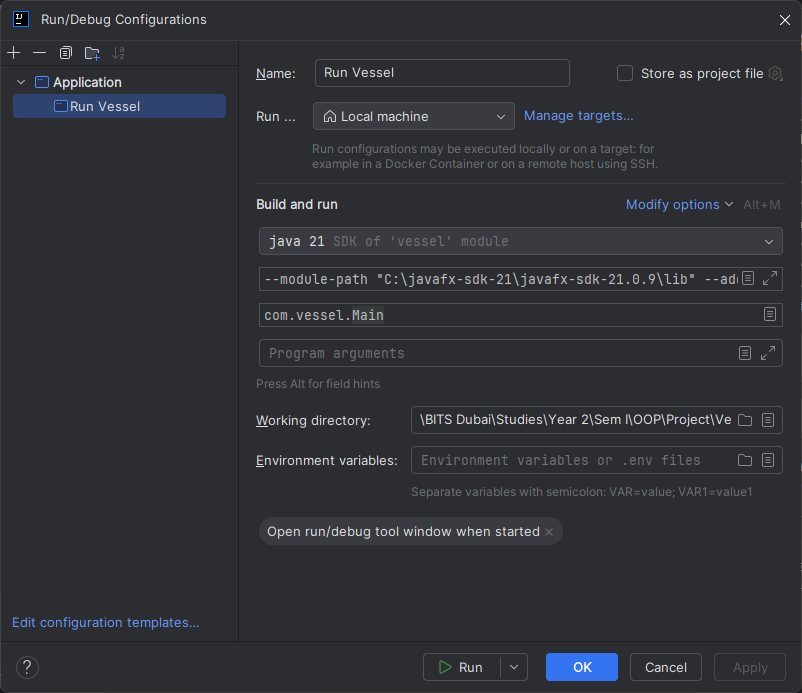
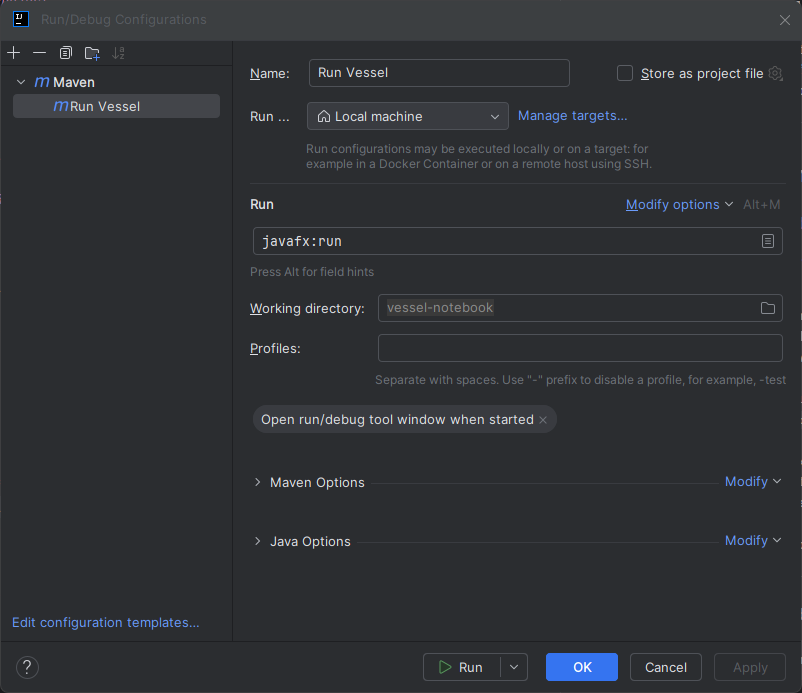
UPDATED README.md - Reordered setup stuff to be above non-setup related stuff - Added instructions for setting up run config

diff --git a/README.md b/README.md
@@ -52,9 +52,92 @@ Open command prompt and use ``` mvn --version ```
 * If prompted, click **“Trust Project”**.
 * Wait for IntelliJ to index and import dependencies (Gradle/Maven/etc.).
 
+* ### Additional Check (important)
+  * Go to settings → project structure
+  * Make sure your JDK version is correctly set to **JDK 21** (doesn't matter if it shows as `21` or `ms-21`)
+  > ![img.png](readme.meta/jdkcheck.png)
+
+---
+## 5. Setting up Maven in IntelliJ
+
+> 💡 You don’t need to use terminal commands — IntelliJ can handle Maven automatically.
+
+### 1. **Ensure Maven is Loaded**
+- On the right sidebar, open the **Maven** tool window (icon looks like an italicized lowercase "*m*").
+- If it’s hidden, go to **View → Tool Windows → Maven**.
+- Click the 🔄 **Reload All Maven Projects** icon to sync `pom.xml`.
+
+### 2. **Build the Project**
+- From the top menu, go to **Build → Build Project** (`Ctrl + F9` / `Cmd + F9`).
+- This compiles all files in `src/main/java` and places outputs in the `target/` folder.
+
+### 3. **Setup Run Config**
+
+- In IntelliJ, go to **Run → Edit Configurations**.
+- Click the **+** button and choose **Maven** (not Application).
+- For **Name**, enter something like `Run Vessel`.
+- *(Usually auto-filled)* For the **Working directory**, select your project root folder.
+- In the **Command line** (or **Goals**) field, put this exactly:
+
+   ```
+   javafx:run
+   ```
+- Click **Apply** and then **OK**. Your steps should look something like this:
+
+    > ![img.png](readme.meta/runconfigtype.png)
+    
+    > ![img.png](readme.meta/runconfig.png)
+
+    > ![img.png](readme.meta/runbtn.png)
+
+    > 💡 This final run button should automatically run your project from anywhere without needing to do additional maven actions
+
+
+### 4. **Rebuild if Needed**
+- If IntelliJ shows outdated code or dependency issues, select **Build → Rebuild Project**.
+
+> ✅ If you're setting up your project for its first ever run - **you're done after this step**! The rest of this document simply has additional info you may need later/in other cases
+
 ---
 
-## 5. Basic Git Operations in IntelliJ
+### ⚙ Basic Maven Commands
+> 💡 You probably wont use these much since IntelliJ's UI kinda has everything in it, but these are here *just* in case
+
+| Command | Description |
+|----------|-------------|
+| `mvn -v` | Check Maven version (verify installation). |
+| `mvn clean` | Deletes the `target/` folder to ensure a fresh build. |
+| `mvn compile` | Compiles all project source files (`src/main/java`). |
+| `mvn package` | Packages the project into a `.jar` file inside `target/`. |
+| `mvn install` | Builds and installs the JAR into your local Maven repository (`~/.m2`). |
+| `mvn site` | Generates a project site/documentation if configured. |
+| `mvn dependency:tree` | Displays a visual tree of all dependencies (useful for debugging conflicts). |
+| `mvn validate` | Checks that the `pom.xml` and project structure are correct. |
+| `mvn verify` | Runs integration tests after packaging (if any). |
+| `mvn exec:java -Dexec.mainClass="com.vessel.Main"` | Runs your main class directly from Maven. |
+
+---
+
+### 🧹 Useful Tips
+- Always run `mvn clean package` after editing `pom.xml` or adding dependencies.
+- Use `mvn dependency:tree` to detect version clashes or duplicates.
+- If dependencies fail to load, delete `.m2/repository` and rebuild with `mvn clean install`.
+- IntelliJ automatically handles Maven imports — you can reload via the “Load Maven Changes” popup anytime.
+
+---
+
+### 💡 Tips
+- If IntelliJ doesn’t recognize new dependencies, click **“Load Maven Changes”** at the top-right.
+- To view Maven tasks (clean, package, install): open the **Maven** sidebar → expand your project → run any goal by double-clicking it.
+
+---
+## Running the App (Alternate Method)
+> ⚠ The normal play button should work if you've set up the `Run/Debug Config` properly in the previous steps; if not then follow this gif to run the program
+ 
+![img.gif](readme.meta/tut.gif)
+
+---
+## 6. Basic Git Operations in IntelliJ
 
 ![img.png](readme.meta/git_status.png)
 
@@ -90,7 +173,7 @@ Open command prompt and use ``` mvn --version ```
 * Create, switch, or merge branches directly from the menu.
 > 💡 Push major changes to branches, rather than main to avoid disrupting stable code; merge back once completed
 ---
-### 🧠 How to Add a Dependency
+### 🧠 How to Add a Dependency in Maven (For Future Stuff)
 
 1. Open your project’s `pom.xml`.
 2. Inside the `<dependencies>` tag, add the library you need in this format:
@@ -130,9 +213,9 @@ If your library is not available online (for example, `ikonli-core.jar` in `/lib
     <systemPath>${project.basedir}/lib/ikonli-core-12.3.1.jar</systemPath>
 </dependency>
 ```
-
 ---
-### Project Structre
+
+## Overview of Project Structre
 ```
 vessel/
 │
@@ -161,69 +244,3 @@ vessel/
 └── .gitignore
 ```
 ---
----
-
-### ⚙ Basic Maven Commands
-
-| Command | Description |
-|----------|-------------|
-| `mvn -v` | Check Maven version (verify installation). |
-| `mvn clean` | Deletes the `target/` folder to ensure a fresh build. |
-| `mvn compile` | Compiles all project source files (`src/main/java`). |
-| `mvn package` | Packages the project into a `.jar` file inside `target/`. |
-| `mvn install` | Builds and installs the JAR into your local Maven repository (`~/.m2`). |
-| `mvn site` | Generates a project site/documentation if configured. |
-| `mvn dependency:tree` | Displays a visual tree of all dependencies (useful for debugging conflicts). |
-| `mvn validate` | Checks that the `pom.xml` and project structure are correct. |
-| `mvn verify` | Runs integration tests after packaging (if any). |
-| `mvn exec:java -Dexec.mainClass="com.vessel.Main"` | Runs your main class directly from Maven. |
-
----
-
-### 🧹 Useful Tips
-- Always run `mvn clean package` after editing `pom.xml` or adding dependencies.
-- Use `mvn dependency:tree` to detect version clashes or duplicates.
-- If dependencies fail to load, delete `.m2/repository` and rebuild with `mvn clean install`.
-- IntelliJ automatically handles Maven imports — you can reload via the “Load Maven Changes” popup anytime.
-
----
----
-
-### 🚀 Building & Running with IntelliJ IDEA
-
-You don’t need to use terminal commands — IntelliJ can handle Maven automatically.
-
-#### 🧭 Step-by-Step
-
-1. **Ensure Maven is Loaded**
-   - On the right sidebar, open the **Maven** tool window.  
-   - If it’s hidden, go to **View → Tool Windows → Maven**.  
-   - Click the 🔄 **Reload All Maven Projects** icon to sync `pom.xml`.
-
-2. **Build the Project**
-   - From the top menu, go to **Build → Build Project** (`Ctrl + F9` / `Cmd + F9`).  
-   - This compiles all files in `src/main/java` and places outputs in the `target/` folder.
-
-3. **Run the Application**
-   - Open your main class (for example, `Main.java` in `com.vessel`).
-   - Click the green ▶ icon next to the class declaration, or right-click → **Run ‘Main.main()’**.
-   - IntelliJ automatically compiles and executes it using Maven dependencies.
-
-4. **Rebuild if Needed**
-   - If IntelliJ shows outdated code or dependency issues, select **Build → Rebuild Project**.
-
----
-
-### 💡 Tips
-- If IntelliJ doesn’t recognize new dependencies, click **“Load Maven Changes”** at the top-right.
-- To view Maven tasks (clean, package, install): open the **Maven** sidebar → expand your project → run any goal by double-clicking it.
-- You can also create a **Run Configuration**:
-  - Go to **Run → Edit Configurations → Add New → Application**
-  - Set:
-    - **Main class:** `com.vessel.Main`
-    - **Working directory:** project root
-    - **Use classpath of module:** select your module (`vessel`)
-
----
-## Running the App
-![img.gif](readme.meta/tut.gif)
